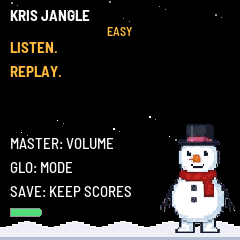
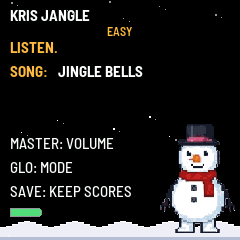
Kris Jangle: HOME SONG picker, real Deck/Carol/Merrily/O Christmas Tree from MIDI, 4 songs
HOME shows LISTEN. / SONG: with SELECT cycling (default Jingle Bells, session-only). Removed the unreachable ST_SELECT page. Deck from deck-the-halls.mid, Merrily from ding-dong-merrily-on-high.mid, O Christmas Tree from o-christmas-tree.mid; settings upgraded CCR3->CCR4 with the new 4th slot saved, backup version 3.

Changed region(s): [[0.0292, 0.2625, 0.6125, 0.3208]]

diff --git a/kris-jangle/app.c b/kris-jangle/app.c
@@ -1,10 +1,11 @@
 /* SPDX-License-Identifier: MPL-2.0
  * Copyright (C) 2026 Charles Vestal */
-/* Kris Jangle: the FM-1 plays the start of a public-domain carol and you
- * replay it on the keys. The song builds as you level up: level 1 asks for
- * the first 3 notes, and each level adds 3 more on top of all the notes
- * before, so the last level (11) is the whole 32-note song on piano (music
- * box) throughout. Three misses sends you to Grump Mode (a recorded jeer,
+/* Kris Jangle: the FM-1 plays the start of a public-domain carol (SONG:
+ * on the HOME screen, turn SELECT) and you replay it on the keys. The
+ * song builds as you level up: level 1 asks for the first 3 notes, and
+ * each level adds 3 more on top of all the notes before, so the last
+ * level (11) is the whole 32-note song on piano (or the selected sound)
+ * throughout. Three misses sends you to Grump Mode (a recorded jeer,
  * then a retry). Finishing the whole song
  * brings up a celebration screen offering the next song.
  * Part of the unity build (device/unity.c, host/plat_host.c), after the
@@ -12,10 +13,11 @@
 #include "fastmath.h"
 #include "sprite_data.h"
 
-#define SET_MAGIC 0x43435233u            /* "CCR3": the settings/scores record */
+#define SET_MAGIC 0x43435234u            /* "CCR4": 4-carol settings/scores record */
+#define SET_MAGIC_V3 0x43435233u           /* "CCR3": 3-carol record (pre-O Christmas Tree) */
 #define SET_MAGIC_OLD 0x43435232u        /* "CCR2": pre-sound settings record */
 #define NVOICES 6            /* melody, each sustained with a ring-out: headroom so no voice steals another */
-#define NCAROLS 3
+#define NCAROLS 4
 #define NPHRASES 8
 #define PHRASE_LEN 4
 #define NSONG_NOTES (NPHRASES * PHRASE_LEN)   /* 32 notes per carol, flattened */
@@ -42,11 +44,25 @@ typedef struct {
     uint8_t env_a, env_d, env_r;         /* envelope 0..100 (defaults match the old fixed envelopes) */
     uint8_t grain;                       /* grain shimmer 0..100 */
 } settings_t;
-/* The pre-sound record (CCR2, 28 bytes) loads through this and is upgraded. */
+/* The pre-sound record (CCR2, 28 bytes) loads through this and is upgraded.
+ * The 3-carol CCR3 record (with sound/envelope/grain) loads through the
+ * 3-wide v3 record below; both keep [3] so the current [NCAROLS] widening
+ * does not change what an old save looks like. */
 typedef struct {
     uint32_t magic;
-    uint32_t best_score[NCAROLS];
-    uint16_t best_level[NCAROLS];
+    uint32_t best_score[3];
+    uint16_t best_level[3];
+    uint8_t last_w1, last_w2;
+    uint8_t sound_on, leds_on;
+    uint8_t rsv[2];
+    uint8_t snd;
+    uint8_t env_a, env_d, env_r;
+    uint8_t grain;
+} settings_v3_t;
+typedef struct {
+    uint32_t magic;
+    uint32_t best_score[3];
+    uint16_t best_level[3];
     uint8_t last_w1, last_w2;
     uint8_t sound_on, leds_on;
     uint8_t rsv[2];
@@ -111,13 +127,25 @@ static const uint8_t CAROL_DUR[NCAROLS][NSONG_NOTES] = {
         2, 2, 4, 2,  2, 4, 2, 2,  2, 2, 6, 6,  2, 2, 2, 2,
         2, 2, 2, 2,  2, 2, 2, 2,  4, 8, 4, 4,  4, 4, 4, 8,
     },
-    { /* Deck the Halls: quarter lines, then held E/D lines, long finale */
-        2, 2, 2, 2,  2, 2, 2, 2,  4, 4, 4, 4,  4, 4, 4, 4,
-        2, 2, 2, 2,  2, 2, 2, 2,  2, 2, 2, 2,  2, 2, 2, 8,
+    { /* Deck the Halls: from deck-the-halls.mid (top voice, F major).
+       * Ticks: 256 tpq, 128/eighth. The tune repeats after 17 attacks;
+       * the level's 32 notes are the first 32 onsets, so phrases 0-3
+       * (17 notes) lead in and 4-7 are the varied repeat. */
+        3, 1, 2, 2,  2, 2, 2, 2,  1, 1, 1, 1,  3, 1, 2, 2,
+        4, 3, 1, 2,  2, 2, 2, 2,  2, 1, 1, 1,  1, 3, 1, 2,
     },
-    { /* We Wish You a Merry Christmas: quarters, held E/D lines, long final C */
-        2, 2, 2, 2,  2, 2, 2, 2,  2, 2, 2, 2,  4, 4, 4, 4,
-        4, 4, 4, 4,  2, 2, 2, 2,  2, 2, 2, 2,  2, 2, 2, 8,
+    { /* Ding Dong Merrily on High: from ding-dong-merrily-on-high.mid
+       * (G major, 4/4, 256 tpq, 128/eighth). Top voice per onset;
+       * bass dyads left out. First 32 onsets include the long
+       * dotted-half (768 ticks = 6) on idx 6 and 20. */
+        2, 2, 1, 1,  1, 1, 6, 2,  2, 2, 2, 2,  4, 4, 2, 2,
+        1, 1, 1, 1,  6, 2,  2, 2,  2, 2, 4, 4,  1, 1, 1, 1,
+    },
+    { /* O Christmas Tree: from o-christmas-tree.mid (F major piano).
+       * Melody is the >=55 voice; bass-only rests are skipped and their
+       * time merged in, ticks/128 rounded to the nearest eighth (>=1). */
+        1, 2, 1, 3,  1, 2, 1, 3,  1, 1, 1, 2,  2, 2, 3, 1,
+        1, 1, 3, 1,  2, 1, 3, 1,  1, 1, 1, 1,  1, 1, 2, 2,
     },
 };
 #define EIGHTH_MS 180u      /* one eighth note in the demo (quarter = 360 ms) */
@@ -129,16 +157,26 @@ static const uint8_t CAROLS[NCAROLS][NPHRASES][PHRASE_LEN] = {
         {64, 64, 64, 64}, {64, 64, 64, 67}, {60, 62, 64, 64}, {65, 65, 65, 65},
         {65, 64, 64, 64}, {64, 62, 62, 64}, {62, 67, 67, 67}, {67, 67, 67, 67},
     },
-    { /* Deck the Halls */
-        {62, 64, 66, 67}, {67, 67, 67, 67}, {64, 64, 64, 64}, {62, 62, 62, 62},
-        {62, 64, 66, 67}, {67, 67, 67, 67}, {67, 66, 64, 62}, {64, 62, 64, 62},
+    { /* Deck the Halls (F, from deck-the-halls.mid top voice):
+       * 72 70 69 67 | 65 67 69 65 | 67 69 70 67 | 69 67 65 64 | ...
+       * the MIDI's organ bass (53/F, 60/C pedal) is left out, so the
+       * demo is the single top line, keyed 64..72 */
+        {72, 70, 69, 67}, {65, 67, 69, 65}, {67, 69, 70, 67}, {69, 67, 65, 64},
+        {65, 72, 70, 69}, {67, 65, 67, 69}, {65, 67, 69, 70}, {67, 69, 67, 65},
     },
-    { /* We Wish You a Merry Christmas */
-        {67, 67, 69, 67}, {67, 69, 69, 69}, {67, 65, 65, 65}, {64, 64, 64, 64},
-        {62, 62, 62, 62}, {64, 64, 67, 67}, {69, 67, 65, 62}, {60, 60, 60, 60},
+    { /* Ding Dong Merrily on High (G): 67 67 69 67 | 66 64 62 62 | ...
+       * top voice of ding-dong-merrily-on-high.mid, keyed 62..74 */
+        {67, 67, 69, 67}, {66, 64, 62, 62}, {64, 67, 67, 66}, {67, 67, 67, 67},
+        {69, 67, 66, 64}, {62, 62, 64, 67}, {67, 66, 67, 67}, {74, 69, 71, 72},
+    },
+    { /* O Christmas Tree (F): 60 65 65 65 | 67 69 69 69 | 69 67 69 70 ...
+       * >=55-voice of o-christmas-tree.mid; inner/bass (41..53) dropped,
+       * repeats that give the tune its waltz lift kept */
+        {60, 65, 65, 65}, {67, 69, 69, 69}, {69, 67, 69, 70}, {64, 67, 65, 72},
+        {72, 69, 74, 72}, {72, 70, 70, 70}, {70, 67, 72, 64}, {65, 70, 70, 69},
     },
 };
-static const char *const CAROL_NAME[NCAROLS] = {"JINGLE BELLS", "DECK THE HALLS", "WE WISH YOU"};
+static const char *const CAROL_NAME[NCAROLS] = {"JINGLE BELLS", "DECK THE HALLS", "MERRILY ON HIGH", "O CHRISTMAS TREE"};
 
 /* ------------------------------------------------------------------ voice --- */
 enum { TIM_MUSICBOX, TIM_BELLS, TIM_CHOIR, TIM_KAZOO, TIM_PIANO, TIM_FLUTE, TIM_SAX, NTIM };
@@ -504,6 +542,7 @@ static void settings_defaults(void)
     set.env_a = 25u; set.env_d = 50u; set.env_r = 50u;
     set.grain = 0u;
 }
+static int load_settings_v3_upgrade(void);  /* defined below: CCR3 -> CCR4 */
 static int load_settings(void)
 {
     if (plat_store_load(OBJ_SETTINGS, &set, sizeof set) == (int)sizeof set && set.magic == SET_MAGIC
@@ -528,7 +567,34 @@ static int load_settings(void)
             return 2;   /* upgraded: caller marks dirty so the new shape is saved soon */
         }
     }
+    if (load_settings_v3_upgrade())
+        return 2;
     settings_defaults();
+    return 0;
+}
+static int load_settings_v3_upgrade(void)
+{
+    /* CCR3 (3-carol): keep the three scores/levels and the sound pages. */
+    settings_v3_t old;
+    if (plat_store_load(OBJ_SETTINGS, &old, sizeof old) == (int)sizeof old && old.magic == SET_MAGIC_V3
+        && old.sound_on <= 1u && old.leds_on <= 1u && old.last_w1 < NWORDS && old.last_w2 < NWORDS
+        && old.rsv[0] < NMODES && old.rsv[1] <= 1u && old.snd < NSOUND
+        && old.env_a <= 100u && old.env_d <= 100u && old.env_r <= 100u && old.grain <= 100u) {
+        settings_defaults();
+        set.best_score[0] = old.best_score[0];
+        set.best_score[1] = old.best_score[1];
+        set.best_score[2] = old.best_score[2];
+        set.best_level[0] = old.best_level[0];
+        set.best_level[1] = old.best_level[1];
+        set.best_level[2] = old.best_level[2];
+        set.last_w1 = old.last_w1; set.last_w2 = old.last_w2;
+        set.sound_on = old.sound_on; set.leds_on = old.leds_on;
+        set.rsv[0] = old.rsv[0]; set.rsv[1] = old.rsv[1];
+        set.snd = old.snd;
+        set.env_a = old.env_a; set.env_d = old.env_d; set.env_r = old.env_r;
+        set.grain = old.grain;
+        return 2;
+    }
     return 0;
 }
 static int save_settings(void)
@@ -569,7 +635,7 @@ void app_backup_restored(void)
 }
 
 /* --------------------------------------------------------------------- UI --- */
-enum { ST_TITLE, ST_SELECT, ST_LISTEN, ST_PLAY, ST_GRUMP, ST_RESULT, ST_SONGDONE, ST_SOUND, ST_ENV, ST_GRAIN, NST };
+enum { ST_TITLE, ST_LISTEN, ST_PLAY, ST_GRUMP, ST_RESULT, ST_SONGDONE, ST_SOUND, ST_ENV, ST_GRAIN, NST };
 static struct {
     uint8_t state;
     uint8_t carol;
@@ -867,7 +933,7 @@ static void input(void)
         if (!(btn & bit) || (ui.btn & bit))
             continue;
         if (k == B_PLAY) {
-            if (ui.state == ST_TITLE || ui.state == ST_SELECT) { ui.level = 1; start_listen(); }
+            if (ui.state == ST_TITLE) { ui.level = 1; start_listen(); }
             else if (ui.state == ST_LISTEN) start_play();
             else if (ui.state == ST_RESULT) next_level();
             else if (ui.state == ST_SONGDONE) next_song();
@@ -891,7 +957,7 @@ static void input(void)
         } else if (k == B_REC) {
             if (ui.state == ST_PLAY || ui.state == ST_LISTEN)
                 start_listen();            /* REC replays the level */
-            else if (ui.state == ST_TITLE || ui.state == ST_SELECT) { ui.level = 1; start_listen(); }
+            else if (ui.state == ST_TITLE) { ui.level = 1; start_listen(); }
         } else if (k == B_SAVE) {
             app_say(save_settings() ? "SAVED" : "SAVE FAILED", "");
         } else if (k == B_SEQ && ui.state == ST_TITLE) {
@@ -921,7 +987,7 @@ static void input(void)
         if ((e = plat_enc((int)k)) == 0)
             continue;
         ui.redraw = 1;
-        if (ui.state == ST_SELECT && k == EN_PRESET) {
+        if (ui.state == ST_TITLE && k == EN_SELECT) {
             ui.carol = (uint8_t)((ui.carol + e + NCAROLS) % NCAROLS);
             app_say(CAROL_NAME[ui.carol], "");
         } else if (ui.state == ST_SOUND && k == EN_PRESET) {
@@ -1234,27 +1300,14 @@ static void draw_content(void)
     case ST_TITLE: {
         frosty(198, 234, ui.frame);
         ttext(10, 40, &FONT_B, "LISTEN.", C_HI);
-        ttext(10, 64, &FONT_B, "REPLAY.", C_HI);
+        ttext(10, 64, &FONT_B, "SONG:", C_HI);
+        ttext(58, 64, &FONT_B, CAROL_NAME[ui.carol], C_WHITE);
 if ((ui.frame / 60u) & 1u)   /* blink ~1 Hz: on for a second, off for a second */
             ttext(10, 112, &FONT_S, "PRESS START", RGB(120, 255, 140));
         ttext(10, 136, &FONT_S, "MASTER: VOLUME", C_WHITE);
         ttext(10, 160, &FONT_S, "GLO: MODE", C_WHITE);
         ttext(10, 184, &FONT_S, "SAVE: KEEP SCORES", C_WHITE);
         battery_meter(10, 208);
-        break;
-    }
-    case ST_SELECT: {
-        santa_spr(198, 234, ui.frame, 0);
-        ttext(10, 40, &FONT_XS, "CAROL (PRESET)", C_GRAY);
-        ttext(10, 60, &FONT_B, CAROL_NAME[ui.carol], C_WHITE);
-        int_text((int32_t)ui.carol + 1, t);
-        ttext(10, 90, &FONT_XS, "NO", C_GRAY);
-        ttext(40, 90, &FONT_XS, t, C_HI);
-        ttext(90, 90, &FONT_XS, "OF 3", C_GRAY);
-        int_text((int32_t)set.best_score[ui.carol], t);
-        ttext(10, 120, &FONT_XS, "BEST", C_GRAY);
-        ttext(50, 120, &FONT_XS, t, C_HI);
-        ttext(10, 150, &FONT_XS, "PLAY: START", C_GRAY);
         break;
     }
     case ST_LISTEN: {

diff --git a/kris-jangle/app.h b/kris-jangle/app.h
@@ -22,7 +22,7 @@ enum { OBJ_SETTINGS, OBJ_PANEL, OBJ_BLE, OBJ_NOBJ };
 /* backup/restore of the saved objects over USB (fm1.toml backup = true) */
 #define APP_BACKUP_OBJS {OBJ_SETTINGS}
 #define APP_BACKUP_MAGIC 0x42524343u          /* "CCRB" */
-#define APP_BACKUP_VERSION 2u
+#define APP_BACKUP_VERSION 3u
 #define APP_BACKUP_WHAT "replaces scores, codes and settings"
 int app_backup_playing(void);
 void app_backup_flush(void);

diff --git a/kris-jangle/docs/MANUAL.md b/kris-jangle/docs/MANUAL.md
@@ -1,8 +1,8 @@
 # KRIS JANGLE
 
 Kris Jangle is a Christmas song game for the M-VAVE FM-1. It plays the
-start of a public-domain carol and you replay it on the 27 keys, on piano
-(music box) throughout. The song builds as you level up: level 1 asks for
+start of a public-domain carol (choose SONG: on the HOME screen) and you replay it on the 27 keys, on piano
+(or the sound selected with EDIT) throughout. The song builds as you level up: level 1 asks for
 the first 3 notes, and each level adds 3 more on top of all the notes
 before, so level 11 is the whole 32-note song. Accurate notes earn 100
 points each, a clean level adds 250, and three misses sends you to Grump
@@ -45,8 +45,7 @@ SAFE MODE after two failed starts, and the web installer can reach it there.
 
 | Screen | What it shows |
 | --- | --- |
-| Title | The name, a battery meter (red when low, orange at medium, green when full), and the controls that matter. |
-| Carol select | The carol (turn PRESET to change) and your best score on it. |
+| Title (HOME) | The name, a battery meter (red when low, orange at medium, green when full), and `SONG:` with the selected carol (turn SELECT to change — Jingle Bells by default). |
 | Listen | The carol's name and which note of the level's length is playing. In EASY and MEDIUM, the key blinks as each note sounds. |
 | Your turn | Notes played so far (out of the level's length), score, misses (3 = Grump Mode) and combo. In EASY, the key to press stays lit the whole turn. |
 | Grump Mode | The Grump jeers (recorded clip), then you retry it. |
@@ -60,9 +59,10 @@ SAFE MODE after two failed starts, and the web installer can reach it there.
 | Control | What it does |
 | --- | --- |
 | Keys | Play the level's notes, in the selected sound (PIANO is the default: a sampled grand piano pitch‑shifted over the 27 keys). Each key also sends its note, with velocity, as MIDI out over USB and Bluetooth (channel 1) while MIDI is on. The Listen playback is not sent — only what you play. On Bluetooth, choose the FM-1 in your app's MIDI input list (it appears as the device name). |
-| PLAY | Start from the title or select screen, skip Listen, replay a level, go to the next level from the result screen, or start the next song from the song-complete screen. |
-| PRESET | Choose the carol on the select screen; adjust values on the edit pages. |
-| ARP, SELECT, OCT−, OCT+ | Unassigned in this game; they do nothing. |
+| PLAY | Start from the title screen (at the selected `SONG:`), skip Listen, replay a level, go to the next level from the result screen, or start the next song from the song-complete screen. |
+| PRESET | Unassigned in this game; it does nothing. |
+| SELECT | On the HOME screen only: cycle the song (`SONG:` — Jingle Bells, Deck the Halls, Merrily on High, O Christmas Tree). Defaults to Jingle Bells; the choice applies to the next game and is session-only. On the ENVELOPE page it changes the value. |
+| ARP, OCT−, OCT+ | Unassigned in this game; they do nothing. |
 | GLO | Cycle the play mode: EASY, MEDIUM, HARD. The mode is shown at the top of every screen. |
 | FX | Turn MIDI out on or off, on both USB and Bluetooth. The screen reader says MIDI ON or MIDI OFF. The choice is kept with SAVE. |
 | EDIT | Open SELECT SOUND: turn PRESET to change the sound (BELLS, MUSICBOX, CHOIR, KAZOO, PIANO, FLUTE, SAX), play keys to audition, PLAY to finish. Kept with SAVE. |

diff --git a/kris-jangle/README.md b/kris-jangle/README.md
@@ -3,8 +3,9 @@
 By w33tSnx. Source: https://github.com/doohinkus/kris-jangle
 
 A Christmas song game for the M-VAVE FM-1, built on fm1-base from the
-template. It plays the start of a public-domain carol, you replay it on
-the keys on piano, and the song builds three notes per level until level
+template. It plays the start of a public-domain carol (Jingle Bells, Deck the Halls,
+Ding Dong Merrily on High, or O Christmas Tree — pick SONG: on the title screen), you replay it on
+the keys on piano (or the selected sound), and the song builds three notes per level until level
 11 is the whole song. Three misses sends you to Grump Mode (a recorded jeer).
 The title screen shows a colour battery meter (red low, orange medium,
 green full) instead of a number.

diff --git a/kris-jangle/site/landing.md b/kris-jangle/site/landing.md
@@ -1,8 +1,8 @@
 # KRIS JANGLE
 
 Kris Jangle is a Christmas game for the M-VAVE FM-1. It plays the start of
-a carol — Jingle Bells, Deck the Halls, or We Wish You a Merry Christmas —
-and you replay it on the keys, on piano throughout. The song builds as you
+a carol — Jingle Bells, Deck the Halls, Ding Dong Merrily on High, or O Christmas Tree —
+and you replay it on the keys, on piano (or the selected sound) throughout. The song builds as you
 level up, three notes at a time, until level 11 is the whole song. Three
 misses sends you to Grump Mode, where the Grump jeers at you — finish a
 whole song and it offers you the next one. It speaks to a screen reader,
